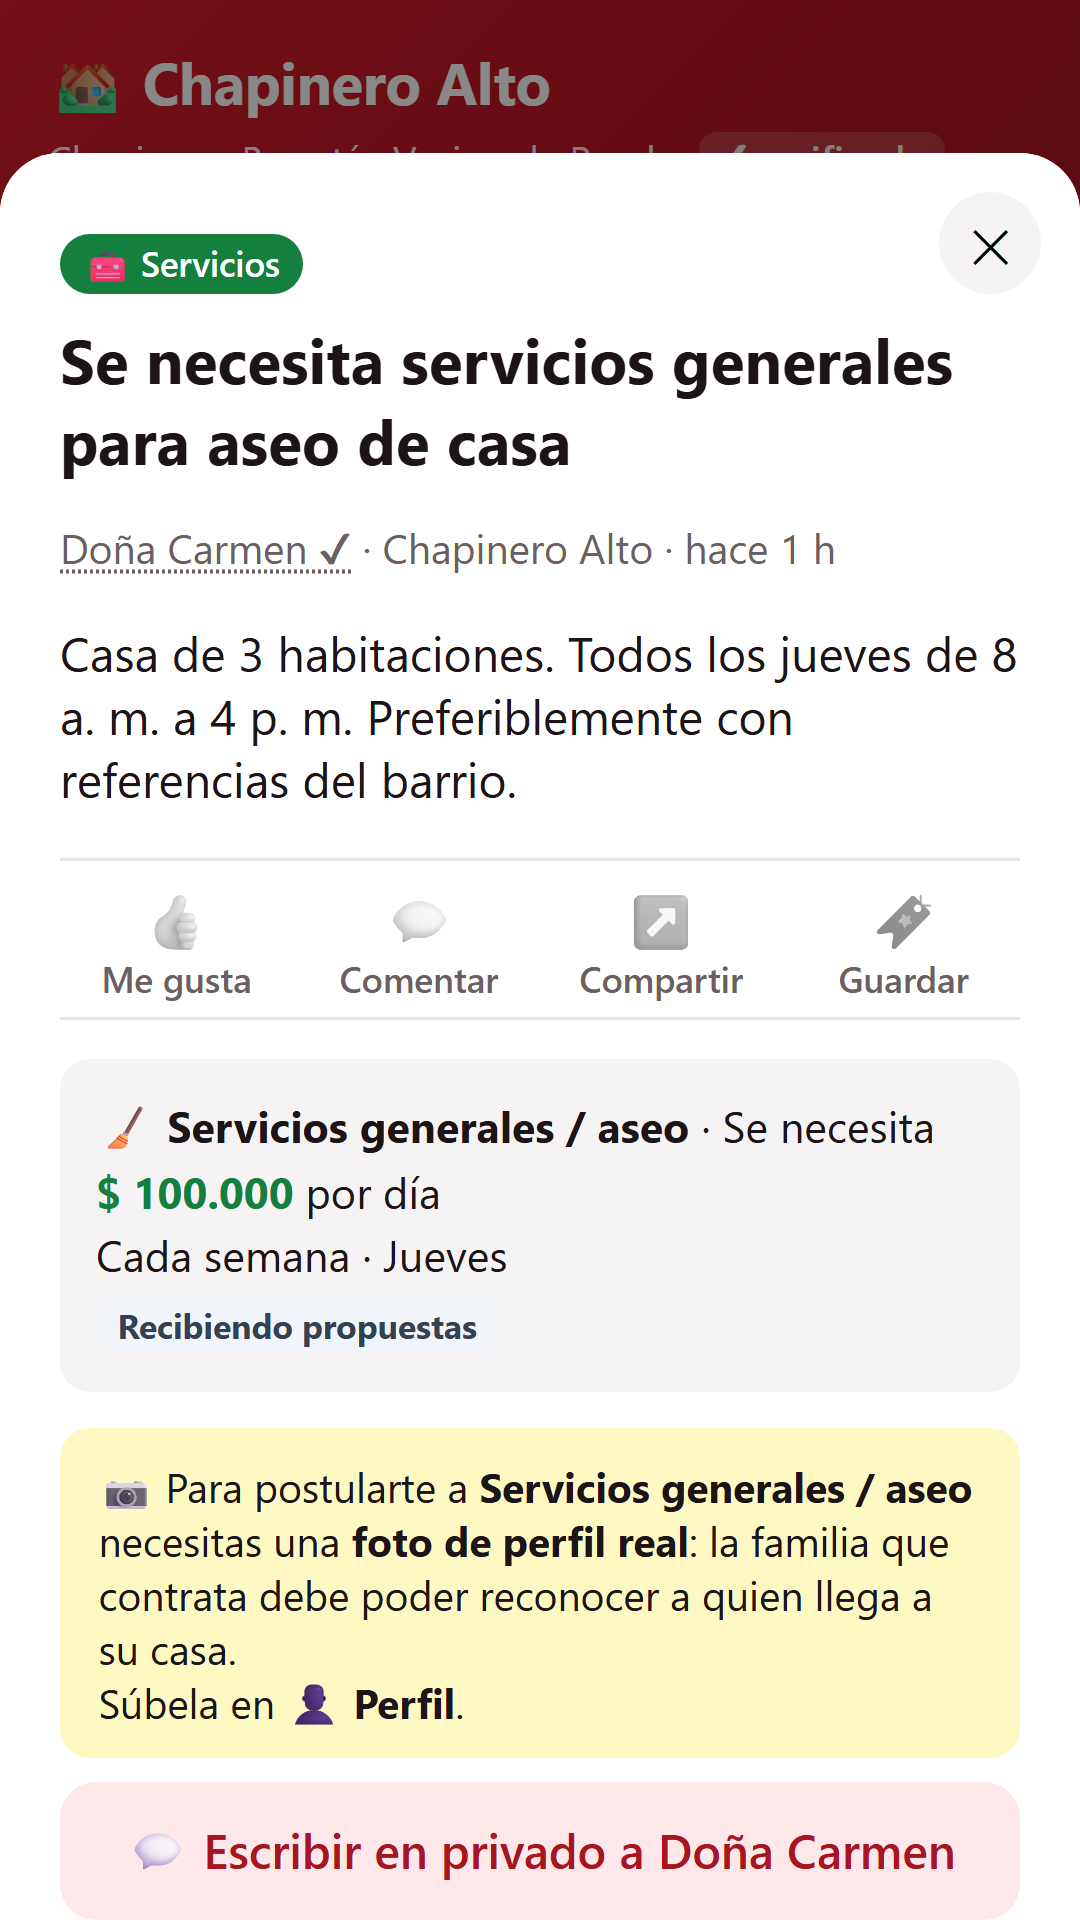
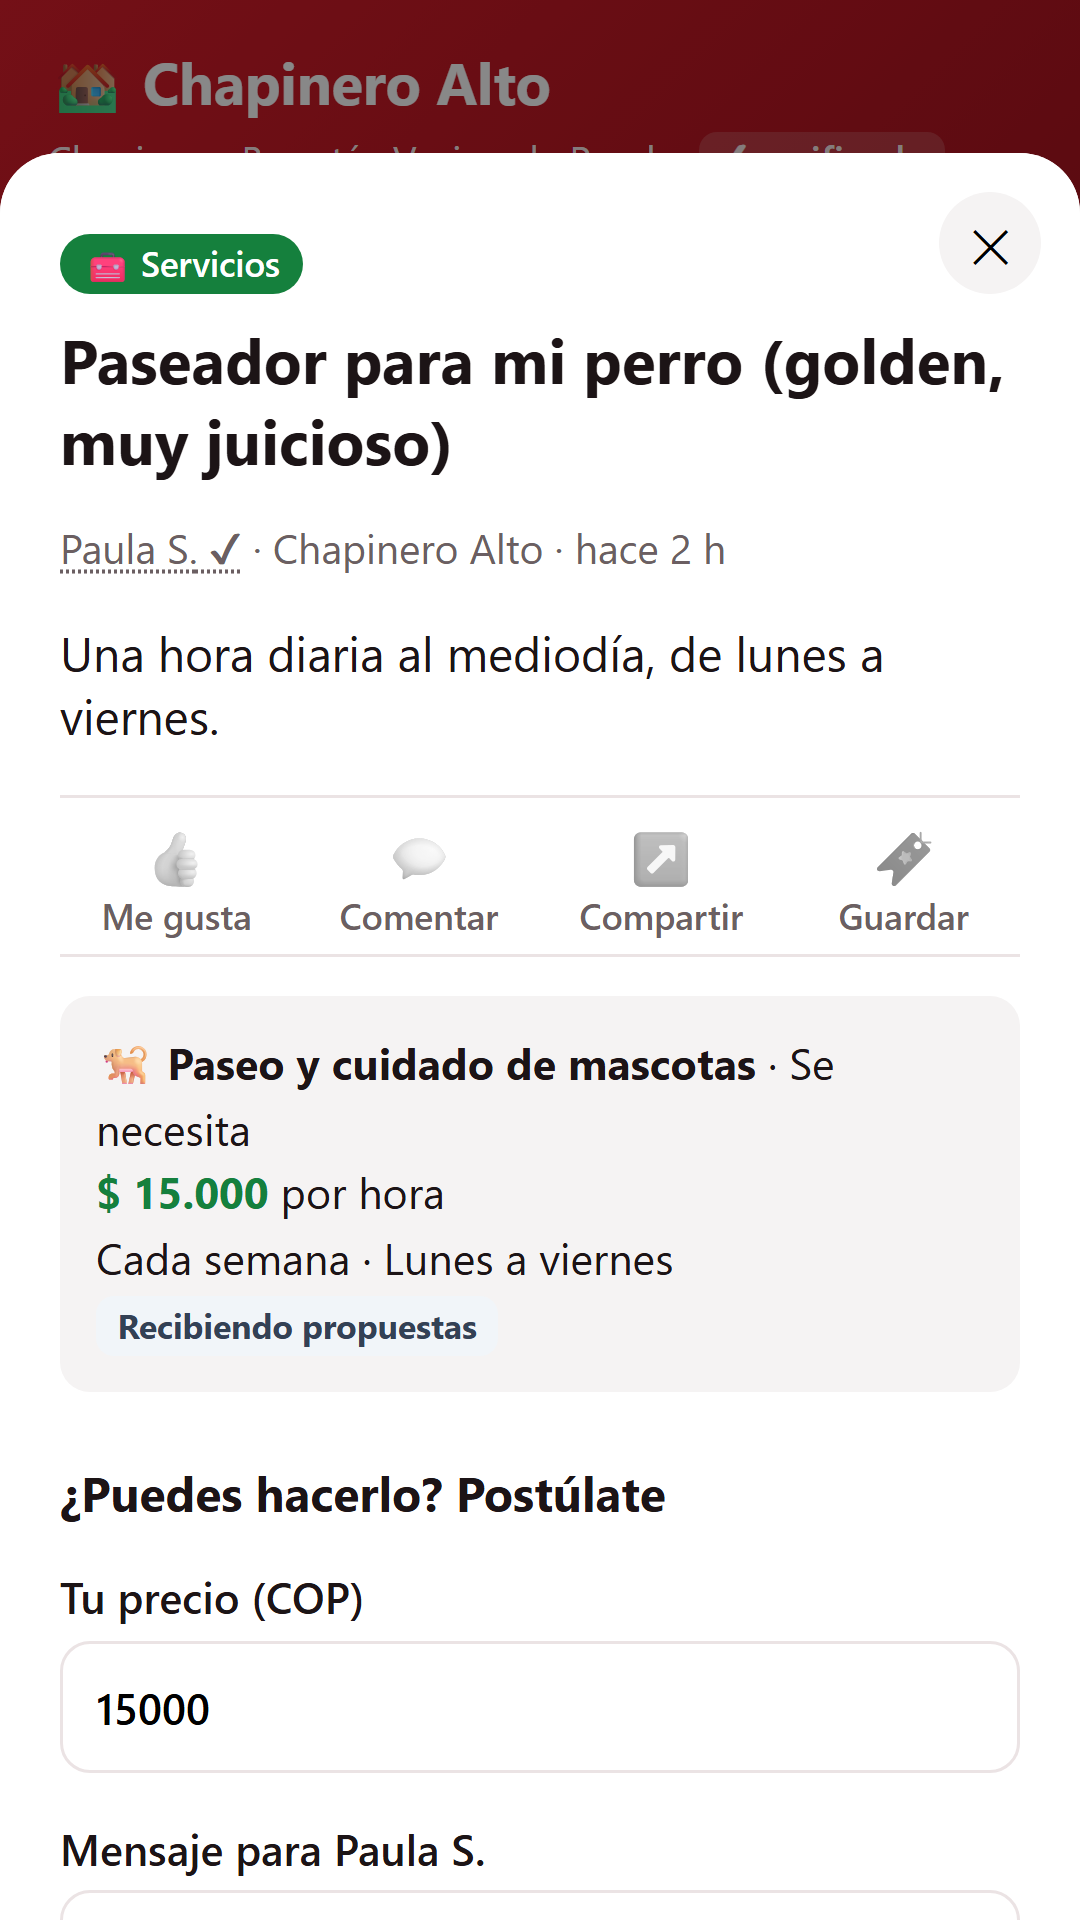
Quitar la verificación automática y pausar servicios de cuidado
- La verificación de documentos solo existía como simulación del demo: se oculta en la versión real
- Migración 0010: el servidor no permite publicar ni contratar cuidado de niños o de adultos mayores
- Los demás oficios que entran a una casa muestran un aviso de que RedCity no verifica identidad
- Política de privacidad, ficha y capturas sin prometer verificación de identidad

diff --git a/src/components/Perfil.tsx b/src/components/Perfil.tsx
@@ -60,7 +60,7 @@ export function PerfilModal({ perfilId, usuario }: { perfilId: string; usuario: 
             <Reputacion usuarioId={perfilId} completo />
           </div>
         </div>
-        <Insignias verificadoGps={verificadoGps} documentos={cuenta?.documentos} />
+        <Insignias verificadoGps={verificadoGps} documentos={NUBE ? undefined : cuenta?.documentos} />
         {cuenta?.bio && <p>{cuenta.bio}</p>}
         {!!cuenta?.oficios?.length && (
           <div className="oficios">{cuenta.oficios.map((o) => <span key={o} className="oficio">🛠 {o}</span>)}</div>
@@ -149,7 +149,7 @@ export function MiPerfil({ usuario, onSalir, onCrearNegocio }: { usuario: Usuari
         </div>
         <SeccionFoto usuario={usuario} />
         {NUBE && <small className="muted">Por ahora tu foto solo se ve en este celular. Pronto la verán tus vecinos.</small>}
-        <Insignias verificadoGps={usuario.verificado} documentos={usuario.documentos} />
+        <Insignias verificadoGps={usuario.verificado} documentos={NUBE ? undefined : usuario.documentos} />
         <button className="btn secondary" onClick={() => nav.perfil(usuario.id)}>👁 Ver mi perfil público</button>
         <div className="form">
           <label>Nombre visible
@@ -203,18 +203,19 @@ export function MiPerfil({ usuario, onSalir, onCrearNegocio }: { usuario: Usuari
 
       <section className="panel">
         <h3>🛡 Verificación</h3>
-        <p className="muted">Entre más verificado estés, más confían tus vecinos. Algunos servicios la exigen:</p>
-        <ul className="lista-requisitos">
+        {NUBE && <p className="muted">Por ahora solo verificamos tu ubicación en el barrio. RedCity aún no revisa documentos de identidad.</p>}
+        {!NUBE && <p className="muted">Entre más verificado estés, más confían tus vecinos. Algunos servicios la exigen:</p>}
+        {!NUBE && <ul className="lista-requisitos">
           {Object.entries(REQUISITOS).map(([rubro, docs]) => (
             <li key={rubro}>{RUBRO[rubro]?.icono} {RUBRO[rubro]?.nombre}: {docs!.map((d) => NOMBRE_DOCUMENTO[d].split(' (')[0]).join(' + ')}</li>
           ))}
-        </ul>
+        </ul>}
         <div className="verif-fila">
           <span>📍 Ubicación en el barrio (GPS)</span>
           <span className={`estado ${usuario.verificado ? 'estado-completada' : 'estado-cancelada'}`}>{usuario.verificado ? 'Verificado' : 'Sin verificar'}</span>
         </div>
-        <Documento usuario={usuario} tipo="cedula" ayuda="Foto de tu cédula por ambos lados." />
-        <Documento usuario={usuario} tipo="antecedentes" ayuda="Certificados de antecedentes de la Policía y de la Procuraduría (se descargan gratis en sus páginas web)." />
+        {!NUBE && <Documento usuario={usuario} tipo="cedula" ayuda="Foto de tu cédula por ambos lados." />}
+        {!NUBE && <Documento usuario={usuario} tipo="antecedentes" ayuda="Certificados de antecedentes de la Policía y de la Procuraduría (se descargan gratis en sus páginas web)." />}
         <small className="muted">🔒 Tus documentos solo los ve el equipo de verificación, nunca tus vecinos. Son datos sensibles protegidos por la Ley 1581 de 2012.</small>
       </section>
 

diff --git a/public/privacidad.html b/public/privacidad.html
@@ -60,7 +60,6 @@
     <tr><td>Publicaciones, comentarios, fotos, historias, reels y notas</td><td>Cuando los publicas</td></tr>
     <tr><td>Mensajes privados y sus fotos</td><td>Cuando escribes a otro vecino</td></tr>
     <tr><td>Foto de perfil, presentación, oficios y enlaces a redes sociales</td><td>Si decides agregarlos</td></tr>
-    <tr><td>Documentos de verificación (cédula, certificados de antecedentes)</td><td>Solo si pides verificar tu identidad</td></tr>
     <tr><td>Propuestas, contrataciones, servicios realizados (valor acordado) y calificaciones</td><td>Cuando usas Servicios</td></tr>
     <tr><td>Redes de seguridad a las que perteneces, alertas y respuestas</td><td>Cuando usas Redes</td></tr>
     <tr><td>Vecinos que bloqueas y reportes que envías o recibes (motivo, detalle y, si reportas un chat, cuál conversación)</td><td>Cuando bloqueas o reportas</td></tr>
@@ -76,7 +75,6 @@
     <li>Mostrarte lo que pasa en tu barrio (el contenido se filtra por cercanía).</li>
     <li>Permitir servicios entre vecinos: propuestas, contratación, confirmación de que el servicio se realizó y calificaciones.</li>
     <li>Funcionar como red de seguridad: avisar a los miembros de tus redes cuando envías un SOS o pides ayuda.</li>
-    <li>Verificar identidades para dar confianza, sobre todo en servicios dentro de casas (niñeras, cuidado de adultos mayores, aseo, cerrajería).</li>
     <li>Moderar el contenido, atender reportes y prevenir fraudes y abusos.</li>
     <li>Cumplir obligaciones legales, contables y tributarias.</li>
   </ul>
@@ -96,7 +94,7 @@
 
 <section>
   <h2>5. Datos sensibles</h2>
-  <p>La ubicación precisa, las imágenes de tu rostro y los documentos de identidad pueden ser datos sensibles. <b>Entregarlos es opcional</b>: no estás obligado a autorizar su tratamiento. Solo se piden para funciones concretas (SOS, verificación de identidad) y se protegen con medidas reforzadas. Los documentos de verificación solo los revisa el equipo de verificación.</p>
+  <p>La ubicación precisa y las imágenes de tu rostro pueden ser datos sensibles. <b>Entregarlos es opcional</b>: no estás obligado a autorizar su tratamiento. Solo se piden para funciones concretas (SOS, verificación de identidad) y se protegen con medidas reforzadas. Los documentos de verificación solo los revisa el equipo de verificación.</p>
 </section>
 
 <section>

diff --git a/src/servicios.ts b/src/servicios.ts
@@ -1,4 +1,5 @@
 import type { EstadoServicio, Frecuencia, TipoDocumento, Usuario } from './types';
+import { NUBE } from './nube/config';
 
 /**
  * ¿RedCity maneja los pagos de los servicios? Por ahora NO: los vecinos acuerdan y pagan directamente
@@ -113,11 +114,21 @@ export const NOMBRE_DOCUMENTO: Record<TipoDocumento, string> = {
   antecedentes: 'Antecedentes (Policía y Procuraduría)',
 };
 
-/** Los servicios con requisitos de verificación también exigen foto de perfil real. */
-export const requiereFoto = (rubro: string) => !!REQUISITOS[rubro];
+/**
+ * En la versión real todavía no hay revisión de documentos: la verificación automática es solo del demo.
+ * Por eso el cuidado de niños y de adultos mayores queda en pausa (también en el servidor, migración 0010)
+ * y los demás oficios que entran a una casa muestran un aviso.
+ */
+export const RUBROS_PAUSADOS = NUBE ? ['ninera', 'adulto-mayor'] : [];
+export const rubroPausado = (rubro: string) => RUBROS_PAUSADOS.includes(rubro);
+export const sinRevisionDeIdentidad = (rubro: string) => NUBE && !!REQUISITOS[rubro] && !rubroPausado(rubro);
+
+/** Los servicios con requisitos de verificación también exigen foto de perfil real (en la versión real aún no se comparte). */
+export const requiereFoto = (rubro: string) => !NUBE && !!REQUISITOS[rubro];
 
 /** Documentos que le faltan a un usuario para el rubro indicado. */
 export function documentosFaltantes(u: Usuario, rubro: string): TipoDocumento[] {
+  if (NUBE) return [];
   return (REQUISITOS[rubro] ?? []).filter((d) => u.documentos?.[d] !== 'verificado');
 }
 

diff --git a/src/components/ServicioDetalle.tsx b/src/components/ServicioDetalle.tsx
@@ -1,7 +1,7 @@
 import { useState } from 'react';
 import type { Postulacion, PostServicio, Usuario } from '../types';
 import { acciones, nuevoId, useEstado } from '../store';
-import { ESTADOS, FRECUENCIAS, NOMBRE_DOCUMENTO, PAGOS_EN_APP, RUBRO, cop, desglose, documentosFaltantes, requiereFoto } from '../servicios';
+import { ESTADOS, FRECUENCIAS, NOMBRE_DOCUMENTO, PAGOS_EN_APP, RUBRO, cop, desglose, documentosFaltantes, requiereFoto, rubroPausado, sinRevisionDeIdentidad } from '../servicios';
 import { Avatar } from './Avatar';
 import { nav } from '../ui';
 import { Desglose } from './Desglose';
@@ -32,7 +32,13 @@ export function ServicioDetalle({ post, usuario }: Props) {
         {post.realizados > 0 && <span className="muted"> · realizado {post.realizados} {post.realizados === 1 ? 'vez' : 'veces'}</span>}
       </div>
 
-      {post.modo === 'ofrezco'
+      {sinRevisionDeIdentidad(post.rubro) && (
+        <p className="aviso">⚠ RedCity no verifica la identidad de quienes ofrecen este servicio. Pide referencias y documentos antes de dejar entrar a alguien a tu casa.</p>
+      )}
+
+      {rubroPausado(post.rubro) && !mio
+        ? <p className="aviso">🛑 Por seguridad, RedCity no permite por ahora contratar ni ofrecer servicios de cuidado de niños o de adultos mayores en la app.</p>
+        : post.modo === 'ofrezco'
         ? <Oferta post={post} usuario={usuario} mio={mio} />
         : mio
           ? <MiNecesidad post={post} elegido={elegido} usuario={usuario} />

diff --git a/src/components/NewPost.tsx b/src/components/NewPost.tsx
@@ -3,7 +3,7 @@ import type { Categoria, Frecuencia, ModoServicio, NivelAlerta, Post, Usuario } 
 import { acciones, nuevoId } from '../store';
 import { CATEGORIAS } from './categorias';
 import { difuminar } from '../geo';
-import { FRECUENCIAS, GRUPOS, NOMBRE_DOCUMENTO, RUBROS, RUBROS_DOMESTICOS, UNIDADES, documentosFaltantes, requiereFoto, type GrupoId } from '../servicios';
+import { FRECUENCIAS, GRUPOS, NOMBRE_DOCUMENTO, RUBROS, RUBROS_DOMESTICOS, UNIDADES, documentosFaltantes, requiereFoto, rubroPausado, type GrupoId } from '../servicios';
 import { Desglose } from './Desglose';
 import { SelectorFotos } from './Fotos';
 import { borrarFoto } from '../fotos';
@@ -127,7 +127,7 @@ export function NewPost({ usuario, categoriaInicial = 'servicio', onCerrar }: Pr
                 <option value="">Selecciona…</option>
                 {(Object.keys(GRUPOS) as GrupoId[]).map((g) => (
                   <optgroup key={g} label={GRUPOS[g]}>
-                    {RUBROS.filter((r) => r.grupo === g).map((r) => <option key={r.id} value={r.id}>{r.icono} {r.nombre}</option>)}
+                    {RUBROS.filter((r) => r.grupo === g && !rubroPausado(r.id)).map((r) => <option key={r.id} value={r.id}>{r.icono} {r.nombre}</option>)}
                   </optgroup>
                 ))}
               </select>

diff --git a/public/eliminar-cuenta.html b/public/eliminar-cuenta.html
@@ -59,7 +59,6 @@
     <li>Tus mensajes privados y sus fotos.</li>
     <li>Tus propuestas de servicios y las calificaciones que diste o recibiste.</li>
     <li>Tu participación en redes de seguridad y apoyo, y tus negocios.</li>
-    <li>Tus documentos de verificación.</li>
     <li>Los vecinos que bloqueaste y los reportes que enviaste o recibiste.</li>
   </ul>
 </section>

diff --git a/tienda/ficha-play-store.md b/tienda/ficha-play-store.md
@@ -40,7 +40,7 @@ Vende lo que ya no usas: publica tus artículos con foto y precio, tus vecinos l
 🔒 TU PRIVACIDAD PRIMERO
 • Tu ubicación exacta nunca se muestra: las publicaciones aparecen a ±150 m.
 • Puedes bloquear y reportar a cualquier vecino.
-• Los vecinos se verifican por GPS, y quienes ofrecen servicios en casas (niñeras, cuidado de adultos mayores, aseo, cerrajería) deben verificar su identidad.
+• Los vecinos se verifican por GPS, para confirmar que viven en el barrio.
 • Puedes eliminar tu cuenta y tus datos cuando quieras desde tu perfil.
 • Tratamiento de datos según la Ley 1581 de 2012.
 
@@ -95,6 +95,7 @@ Google necesita entrar para revisarla. Elige **"Todas o algunas funciones están
 | Fotos | Sí | No | Funcionalidad (publicaciones, perfil, chat) |
 | Mensajes en la app | Sí | No | Funcionalidad (chat privado) |
 | Otro contenido generado por el usuario | Sí | No | Funcionalidad (publicaciones, comentarios) |
+| Historial de compras (servicios contratados y valor acordado; la app no procesa pagos) | Sí | No | Funcionalidad |
 | Interacciones en la app | Sí | No | Funcionalidad (me gusta, guardados) |
 | Información financiera / de tarjeta | **No** (la app no procesa pagos) | — | — |
 
